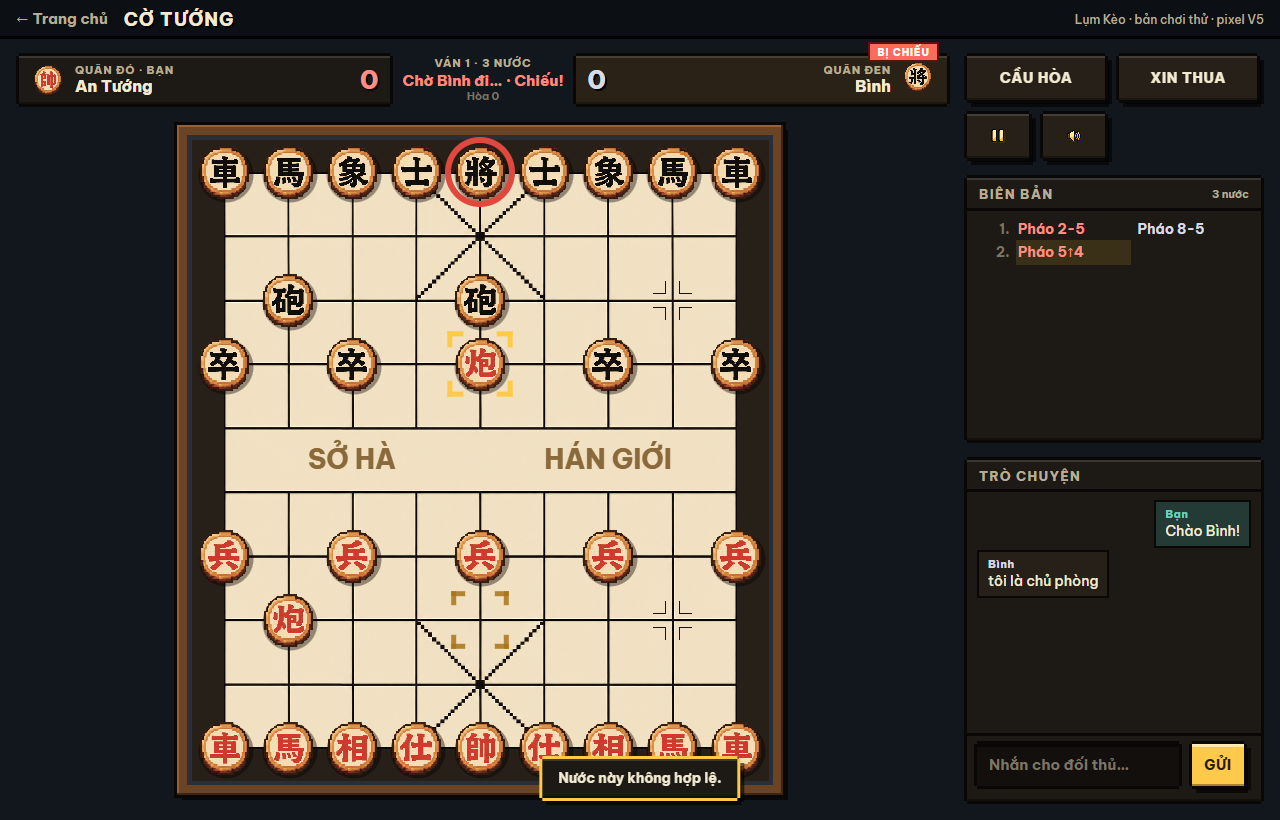
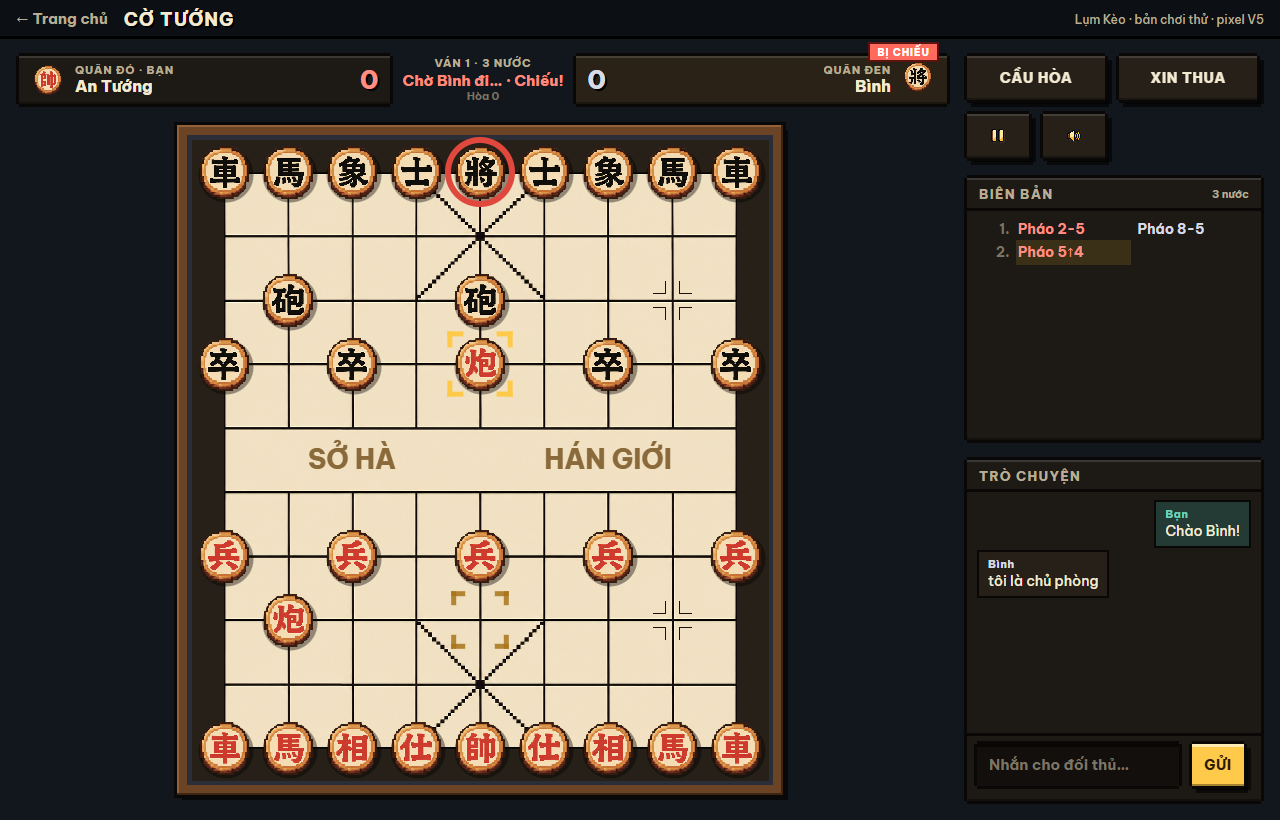
Cờ Tướng: buộc trình duyệt tải lại bộ quân chữ Hán (đường dẫn ảnh có số phiên bản), ảnh chụp mới
Bộ quân chữ Hán của Codex (帥仕相馬車炮兵 / 將士象馬車砲卒) đã có từ e08125d; file cùng tên với
bộ ký hiệu Latin cũ nên thêm ?v=han1 để trình duyệt nào còn giữ ảnh cũ phải tải lại.

Changed region(s): [[0.4062, 0.9146, 0.5938, 0.9756]]

diff --git a/prototype/games/co-tuong/game.js b/prototype/games/co-tuong/game.js
@@ -22,9 +22,10 @@ const GLYPH_FONT = '"Noto Serif SC","Noto Serif CJK SC","Source Han Serif SC","S
 // Chưa tải xong / lỗi tải thì vẽ tạm bằng code (giữ nguyên chơi được).
 const PIECE_FILE = { K: "general", A: "advisor", B: "elephant", N: "horse", R: "rook", C: "cannon", P: "pawn" };
 const ATLAS_COL = "KABNRCP";
-const pieceSrc = (pc) => "assets/pieces/" + (sideOf(pc) === RED ? "red-" : "black-") + PIECE_FILE[pc.toUpperCase()] + ".png";
+const PIECE_VER = "han1"; // bộ quân chữ Hán (thay bộ ký hiệu Latin cũ cùng tên file) — đổi số này khi Codex giao bộ ảnh mới để trình duyệt bỏ ảnh cũ đã lưu
+const pieceSrc = (pc) => "assets/pieces/" + (sideOf(pc) === RED ? "red-" : "black-") + PIECE_FILE[pc.toUpperCase()] + ".png?v=" + PIECE_VER;
 function loadImg(src) { const im = new Image(); im.decoding = "async"; im.src = new URL(src, import.meta.url).href; return im; }
-const IMG = { board: loadImg("assets/board-grid.webp"), atlas: loadImg("assets/pieces.png") };
+const IMG = { board: loadImg("assets/board-grid.webp"), atlas: loadImg("assets/pieces.png?v=" + PIECE_VER) };
 const ready = (im) => im.complete && im.naturalWidth > 0;
 function pieceHtml(pc) { return `<img src="${pieceSrc(pc)}" alt="" width="64" height="64" style="display:block;width:100%;height:100%;image-rendering:pixelated">`; }
 function pieceSvg(pc) {
